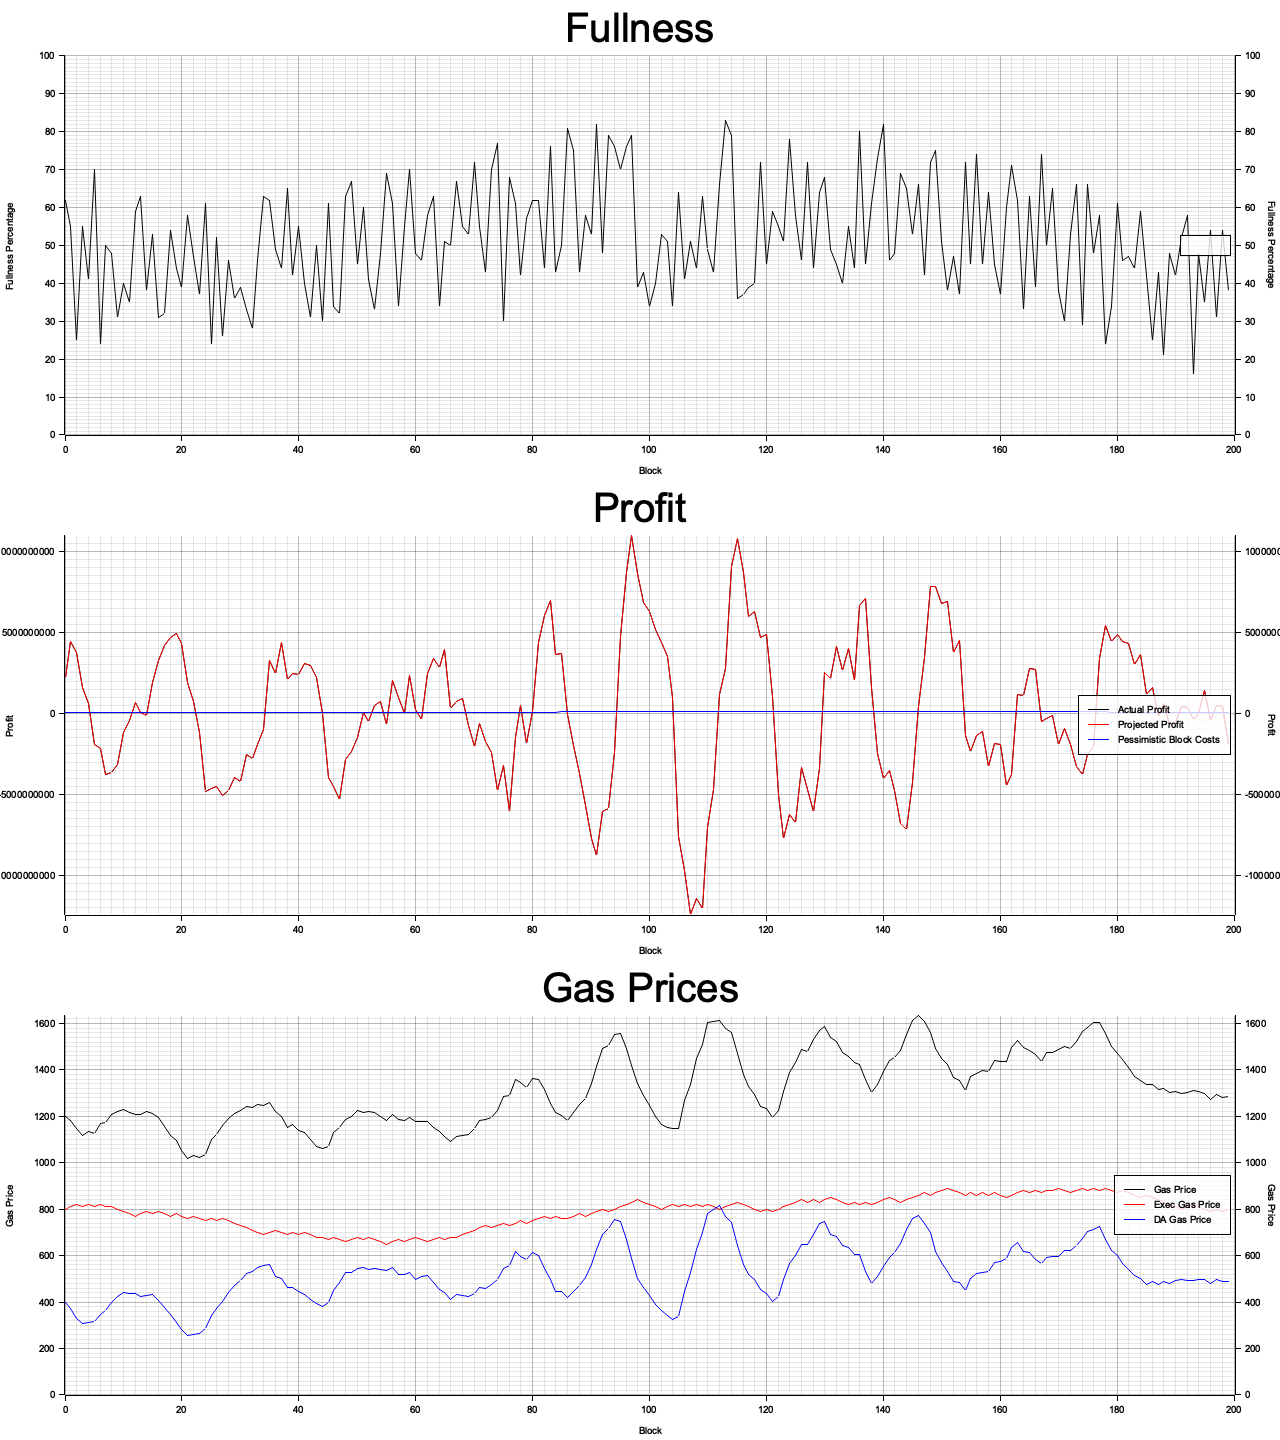
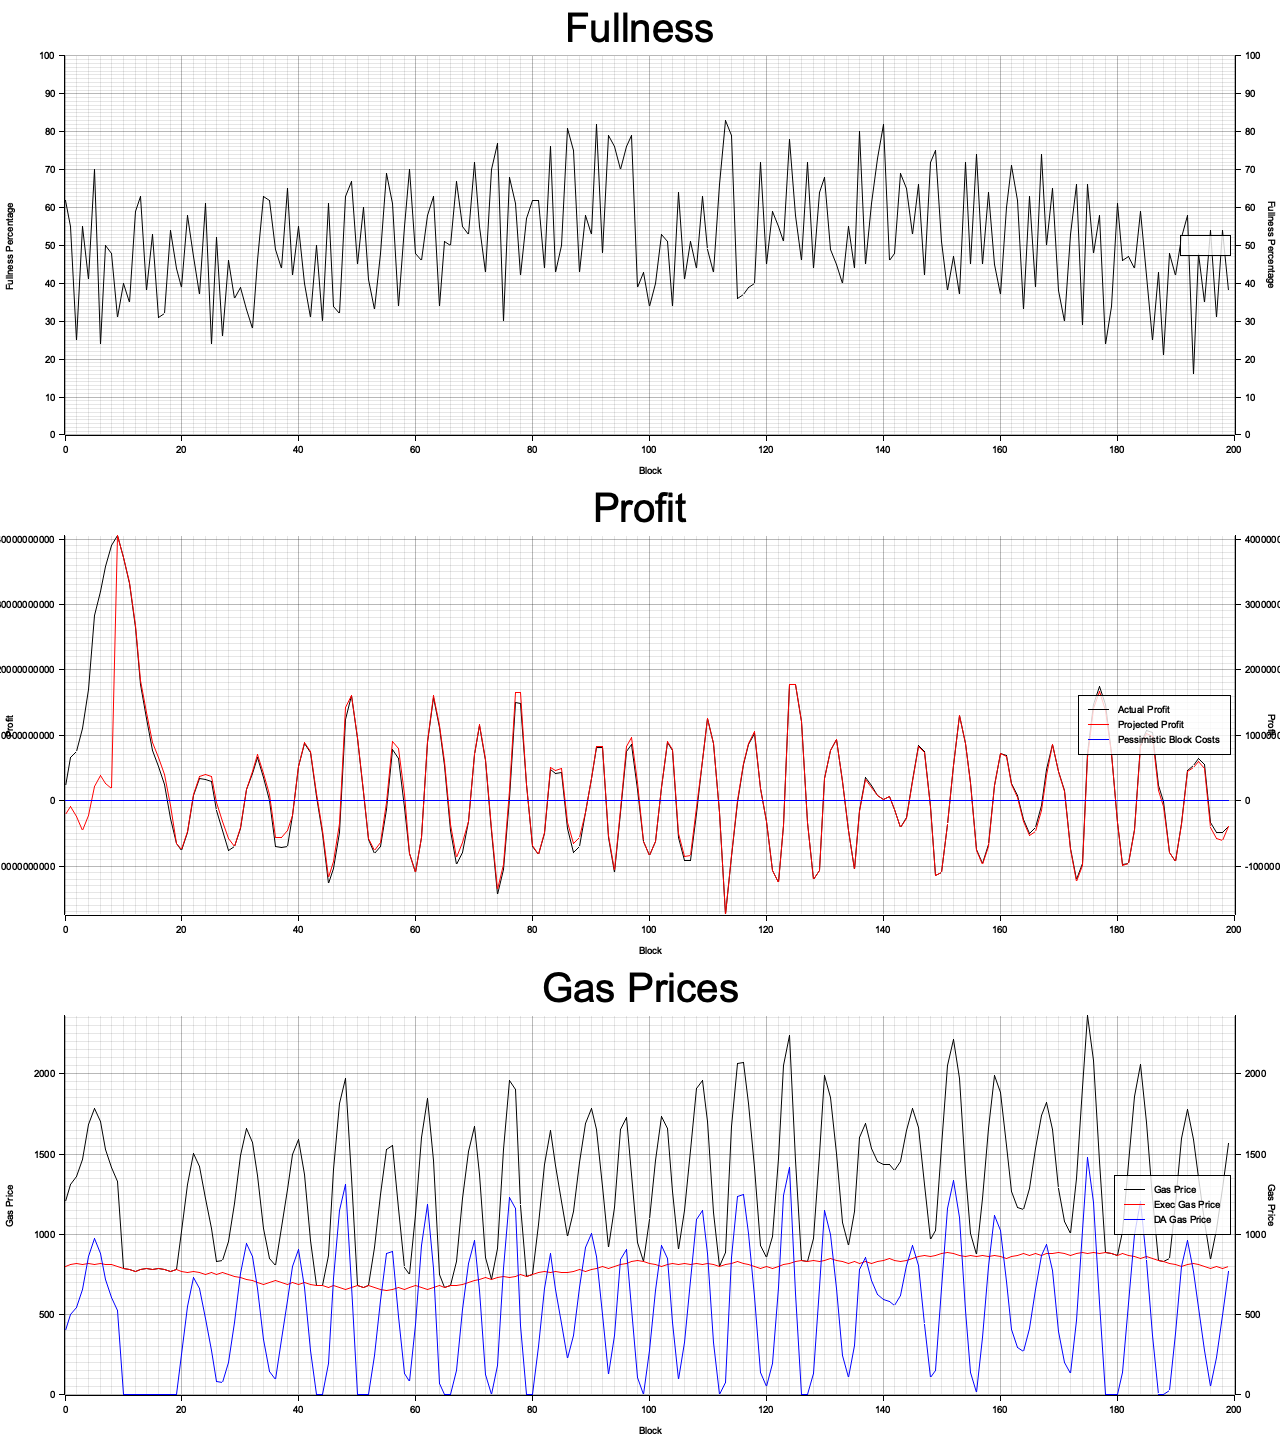
Add average profit values

Changed region(s): [[0.0312, 0.6875, 1.0, 0.9688], [0.0, 0.375, 1.0, 0.625]]

diff --git a/crates/gas-price-algorithm/src/lib.rs b/crates/gas-price-algorithm/src/lib.rs
@@ -47,9 +47,10 @@ pub struct AlgorithmV1 {
     latest_da_cost_per_byte: u64,
     total_rewards: u64,
     total_costs: u64,
-    last_profit: i64,
     da_p_component: i64,
     da_d_component: i64,
+    avg_profit: i64,
+    avg_window: u32,
 }
 
 impl AlgorithmV1 {
@@ -60,17 +61,20 @@ impl AlgorithmV1 {
         // let extra_for_this_block = 0;
         let pessimistic_cost = self.total_costs + extra_for_this_block;
         let projected_profit = self.total_rewards as i64 - pessimistic_cost as i64;
+        let projected_profit_avg = (projected_profit
+            + (self.avg_profit * (self.avg_window as i64 - 1)))
+            / self.avg_window as i64;
 
         // P
-        let checked_p = projected_profit.checked_div(self.da_p_component);
+        let checked_p = projected_profit_avg.checked_div(self.da_p_component);
         let p = -checked_p.unwrap_or(0);
 
         // D
-        let slope = projected_profit - self.last_profit;
+        let slope = projected_profit_avg - self.avg_profit;
         let checked_d = slope.checked_div(self.da_d_component);
         let d = -checked_d.unwrap_or(0);
+        // let d = 0;
 
-        dbg!(projected_profit, slope, p, d);
         new_da_gas_price = new_da_gas_price + p + d;
         let min = 0;
         let new_da_gas_price = max(new_da_gas_price, min);
@@ -95,7 +99,8 @@ pub struct AlgorithmUpdaterV1 {
     pub projected_total_da_cost: u64,
     pub da_p_component: i64,
     pub da_d_component: i64,
-    pub last_profit: i64,
+    pub profit_avg: i64,
+    pub avg_window: u32,
 
     pub latest_da_cost_per_byte: u64,
     pub unrecorded_blocks: Vec<BlockBytes>,
@@ -116,20 +121,6 @@ pub struct BlockBytes {
 }
 
 impl AlgorithmUpdaterV1 {
-    // pub fn new(l2_block_height: u32, da_recorded_block_height: u32, latest_da_cost_per_byte: u64) -> Self {
-    //     Self {
-    //         gas_price: 0,
-    //         l2_block_height,
-    //         l2_block_fullness_threshold: 0,
-    //         exec_gas_price_increase_amount: 0,
-    //         da_recorded_block_height,
-    //         latest_known_total_cost: 0,
-    //         projected_total_cost: 0,
-    //         latest_da_cost_per_byte,
-    //         unrecorded_blocks: Vec::new(),
-    //     }
-    // }
-
     pub fn update_da_record_data(
         &mut self,
         blocks: Vec<RecordedBlock>,
@@ -155,8 +146,9 @@ impl AlgorithmUpdaterV1 {
             })
         } else {
             self.l2_block_height = height;
-            self.last_profit =
+            let last_profit =
                 self.total_da_rewards as i64 - self.projected_total_da_cost as i64;
+            self.update_profit_avg(last_profit);
             self.projected_total_da_cost += block_bytes * self.latest_da_cost_per_byte;
             // implicitly deduce what our da gas price was for the l2 block
             self.last_da_price = gas_price.saturating_sub(self.new_exec_price);
@@ -165,6 +157,13 @@ impl AlgorithmUpdaterV1 {
             self.total_da_rewards += da_reward;
             Ok(())
         }
+    }
+
+    fn update_profit_avg(&mut self, new_profit: i64) {
+        let old_avg = self.profit_avg;
+        let new_avg = (old_avg * (self.avg_window as i64 - 1) + new_profit)
+            / self.avg_window as i64;
+        self.profit_avg = new_avg;
     }
 
     fn update_exec_gas_price(&mut self, used: u64, capacity: u64) {
@@ -233,9 +232,10 @@ impl AlgorithmUpdaterV1 {
             latest_da_cost_per_byte: self.latest_da_cost_per_byte,
             total_rewards: self.total_da_rewards,
             total_costs: self.projected_total_da_cost,
-            last_profit: self.last_profit,
+            avg_profit: self.profit_avg,
             da_p_component: self.da_p_component,
             da_d_component: self.da_d_component,
+            avg_window: self.avg_window,
         }
     }
 }

diff --git a/crates/gas-price-algorithm/src/tests/algorithm_v1_tests.rs b/crates/gas-price-algorithm/src/tests/algorithm_v1_tests.rs
@@ -39,7 +39,8 @@ fn calculate__negative_profit_increase_gas_price() {
     let da_p_component = 100;
     let da_d_component = 10;
     let block_bytes = 500;
-    let latest_profit = 100;
+    let profit_avg = 100;
+    let avg_window = 10;
     let arb_value = 1000;
     let smaller_starting_reward =
         starting_cost + block_bytes * latest_gas_per_byte - arb_value;
@@ -52,7 +53,7 @@ fn calculate__negative_profit_increase_gas_price() {
         .with_known_total_cost(starting_cost)
         .with_projected_total_cost(starting_cost)
         .with_da_cost_per_byte(latest_gas_per_byte)
-        .with_last_profit(latest_profit)
+        .with_profit_avg(profit_avg, avg_window)
         .build();
 
     // when
@@ -60,18 +61,14 @@ fn calculate__negative_profit_increase_gas_price() {
     let actual = algo.calculate(block_bytes);
 
     // then
-    // let profit = (smaller_starting_reward as i64
-    //     - (starting_cost + block_bytes * latest_gas_per_byte) as i64);
-    // let expected = starting_exec_gas_price
-    //     + last_da_gas_price
-    //     + (profit.abs() / da_p_component) as u64;
-    // assert_eq!(expected, actual);
-
     let profit = smaller_starting_reward as i64
         - (starting_cost + block_bytes * latest_gas_per_byte) as i64;
-    let da_p_comp = (profit / da_p_component);
-    let slope = profit - latest_profit;
-    let da_d_comp = (slope / da_d_component);
+    let new_profit_avg =
+        (profit_avg * (avg_window as i64 - 1) + profit) / avg_window as i64;
+
+    let da_p_comp = new_profit_avg / da_p_component;
+    let slope = new_profit_avg - profit_avg;
+    let da_d_comp = slope / da_d_component;
     let expected =
         starting_exec_gas_price as i64 + last_da_gas_price as i64 - da_p_comp - da_d_comp;
     assert_eq!(expected as u64, actual);
@@ -88,6 +85,8 @@ fn calculate__positive_profit_decrease_gas_price() {
     let da_d_component = 10;
     let block_bytes = 500;
     let latest_profit = 100;
+    let profit_avg = 100;
+    let avg_window = 10;
     let arb_value = 1000;
     let larger_starting_reward =
         starting_cost + block_bytes * latest_gas_per_byte + arb_value;
@@ -100,7 +99,7 @@ fn calculate__positive_profit_decrease_gas_price() {
         .with_known_total_cost(starting_cost)
         .with_projected_total_cost(starting_cost)
         .with_da_cost_per_byte(latest_gas_per_byte)
-        .with_last_profit(latest_profit)
+        .with_profit_avg(profit_avg, avg_window)
         .build();
 
     // when
@@ -110,9 +109,12 @@ fn calculate__positive_profit_decrease_gas_price() {
     // then
     let profit = larger_starting_reward as i64
         - (starting_cost + block_bytes * latest_gas_per_byte) as i64;
-    let slope = profit - latest_profit;
-    let da_p_comp = (profit / da_p_component);
-    let da_d_comp = (slope / da_d_component);
+    let new_profit_avg =
+        (profit_avg * (avg_window as i64 - 1) + profit) / avg_window as i64;
+
+    let da_p_comp = new_profit_avg / da_p_component;
+    let slope = new_profit_avg - profit_avg;
+    let da_d_comp = slope / da_d_component;
     let expected =
         starting_exec_gas_price as i64 + last_da_gas_price as i64 - da_p_comp - da_d_comp;
     assert_eq!(expected as u64, actual);

diff --git a/crates/gas-price-algorithm/src/tests/update_l2_block_Data_tests.rs b/crates/gas-price-algorithm/src/tests/update_l2_block_Data_tests.rs
@@ -209,38 +209,32 @@ fn update_l2_block_data__updates_last_da_gas_price() {
 }
 
 #[test]
-fn update_l2_block_data__updates_the_previous_profit() {
+fn update_l2_block_data__updates_profit_avg() {
     // given
-    let starting_exec_gas_price = 100;
-    let starting_da_gas_price = 10;
-    let price_per_byte = 10;
-    let total_rewards = 1000;
+    let starting_profit_avg = 200;
+    let avg_window = 10;
     let total_cost = 500;
+    let total_rewards = 1000;
     let mut updater = UpdaterBuilder::new()
-        .with_starting_exec_gas_price(starting_exec_gas_price)
-        .with_starting_da_gas_price(starting_da_gas_price)
-        .with_da_cost_per_byte(price_per_byte)
+        .with_profit_avg(starting_profit_avg, avg_window)
         .with_total_rewards(total_rewards)
         .with_projected_total_cost(total_cost)
         .build();
 
     let height = 1;
-    let gas_used = 50;
-    let fullness = (gas_used, 100);
+    let fullness = (50, 100);
     let block_bytes = 1000;
-    let new_gas_price = 200;
+    let new_gas_price = 100;
 
     // when
     updater
         .update_l2_block_data(height, fullness, block_bytes, new_gas_price)
         .unwrap();
 
-    // then
-    // let new_da_price = new_gas_price - starting_exec_gas_price;
-    // let cost = block_bytes * price_per_byte;
-    // let reward = new_da_price * gas_used;
-    // let expected = reward as i64 - cost as i64;
-    let expected = total_rewards as i64 - total_cost as i64;
-    let actual = updater.last_profit;
+    //  then
+    let last_profit = total_rewards as i64 - total_cost as i64;
+    let expected =
+        (starting_profit_avg * (avg_window as i64 - 1) + last_profit) / avg_window as i64;
+    let actual = updater.profit_avg;
     assert_eq!(actual, expected);
 }

diff --git a/crates/gas-price-algorithm/src/main.rs b/crates/gas-price-algorithm/src/main.rs
@@ -121,11 +121,11 @@ fn main() {
     // simulation parameters
     let fullness_threshold = 50;
     let exec_gas_price_increase_amount = 10;
-    let da_p_component = 150_000_000;
-    let da_d_component = 150_000_000;
+    let da_p_component = 20_000_000;
+    let da_d_component = 2_500_000;
     let starting_da_cost_per_byte = 200;
     let size = 200;
-    let da_recording_rate = 1;
+    let da_recording_rate = 10;
     let capacity = 30_000_000;
     let gas_per_byte = 63;
     let max_block_bytes = capacity / gas_per_byte;
@@ -178,7 +178,8 @@ fn main() {
         unrecorded_blocks: vec![],
         da_p_component,
         da_d_component,
-        last_profit: 0,
+        profit_avg: 0,
+        avg_window: 10,
     };
 
     let mut gas_prices = vec![];
@@ -211,7 +212,6 @@ fn main() {
         projected_costs.push(updater.projected_total_da_cost);
         let profit =
             updater.total_da_rewards as i64 - updater.projected_total_da_cost as i64;
-        dbg!(profit);
     }
 
     // Plotting code starts here
@@ -376,6 +376,7 @@ fn draw_profit(
 ) {
     let min = *actual_profit.iter().min().unwrap();
     let max = *actual_profit.iter().max().unwrap();
+    println!("min: {}, max: {}", min, max);
 
     let mut chart = ChartBuilder::on(drawing_area)
         .caption(title, ("sans-serif", 50).into_font())

diff --git a/crates/gas-price-algorithm/src/tests.rs b/crates/gas-price-algorithm/src/tests.rs
@@ -18,6 +18,8 @@ struct UpdaterBuilder {
     latest_known_total_cost: u64,
     unrecorded_blocks: Vec<BlockBytes>,
     last_profit: i64,
+    profit_avg: i64,
+    avg_window: u32,
 }
 
 impl UpdaterBuilder {
@@ -39,6 +41,8 @@ impl UpdaterBuilder {
             latest_known_total_cost: 0,
             unrecorded_blocks: vec![],
             last_profit: 0,
+            profit_avg: 0,
+            avg_window: 1,
         }
     }
 
@@ -118,6 +122,12 @@ impl UpdaterBuilder {
         self
     }
 
+    fn with_profit_avg(mut self, profit_avg: i64, window: u32) -> Self {
+        self.profit_avg = profit_avg;
+        self.avg_window = window;
+        self
+    }
+
     fn build(self) -> AlgorithmUpdaterV1 {
         AlgorithmUpdaterV1 {
             new_exec_price: self.starting_exec_gas_price,
@@ -135,7 +145,8 @@ impl UpdaterBuilder {
             projected_total_da_cost: self.project_total_cost,
             latest_known_total_da_cost: self.latest_known_total_cost,
             unrecorded_blocks: self.unrecorded_blocks,
-            last_profit: self.last_profit,
+            profit_avg: self.profit_avg,
+            avg_window: self.avg_window,
         }
     }
 }

diff --git a/crates/gas-price-algorithm/src/tests/update_da_record_data_tests.rs b/crates/gas-price-algorithm/src/tests/update_da_record_data_tests.rs
@@ -278,6 +278,3 @@ fn update__da_block_updates_projected_total_cost_with_known_and_guesses_on_top()
     let expected = new_known_total_cost + guessed_part;
     assert_eq!(actual, expected);
 }
-
-#[test]
-fn update_da_record_data__updates_previous_profit() {}
